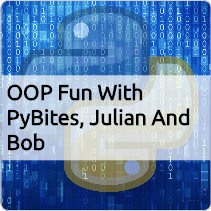
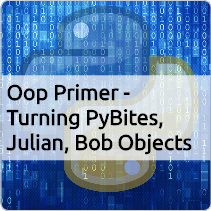
update timestamp post and feat img

Changed region(s): [[0.0284, 0.3697, 0.91, 0.7393]]

diff --git a/content/oop-primer.md b/content/oop-primer.md
@@ -1,5 +1,5 @@
 Title: Everything is an Object, Python OOP primer
-Date: 2017-01-24 00:01
+Date: 2017-01-24 23:59
 Category: Concepts
 Tags: tutorial, oop, objectoriented, programming, inheritance, polymorphism, ABC, encapsulation, property
 Slug: oop-primer
